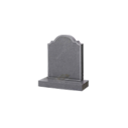
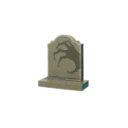
relic update

diff --git a/src/main/java/spireCafe/interactables/patrons/councilofghosts/BlankTombstone.java b/src/main/java/spireCafe/interactables/patrons/councilofghosts/BlankTombstone.java
@@ -5,8 +5,8 @@ import com.megacrit.cardcrawl.actions.common.RelicAboveCreatureAction;
 import com.megacrit.cardcrawl.core.AbstractCreature;
 import com.megacrit.cardcrawl.dungeons.AbstractDungeon;
 import com.megacrit.cardcrawl.powers.IntangiblePlayerPower;
+import com.megacrit.cardcrawl.rooms.AbstractRoom;
 import spireCafe.abstracts.AbstractSCRelic;
-import spireCafe.interactables.patrons.purpletear.BookOfIndex;
 
 import static spireCafe.Anniv7Mod.makeID;
 
@@ -23,5 +23,14 @@ public class BlankTombstone extends AbstractSCRelic {
         flash();
         addToBot(new RelicAboveCreatureAction(AbstractDungeon.player, this));
         addToBot(new ApplyPowerAction(AbstractDungeon.player, (AbstractCreature)null, new IntangiblePlayerPower(AbstractDungeon.player, TURNS), TURNS));
+        grayscale = true;
+    }
+
+    public void justEnteredRoom(AbstractRoom room) {
+        this.grayscale = false;
+    }
+
+    public String getUpdatedDescription() {
+        return DESCRIPTIONS[0] + TURNS + DESCRIPTIONS[1];
     }
 }
